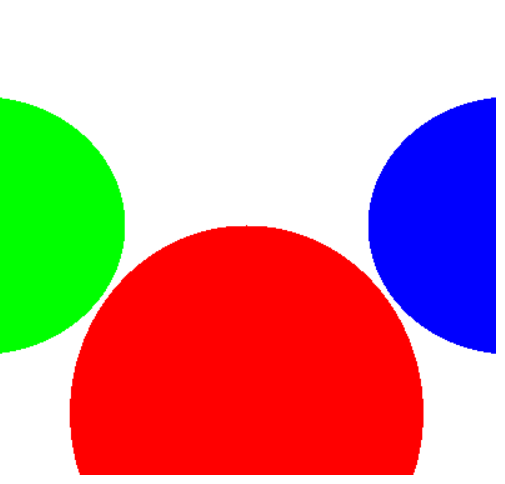
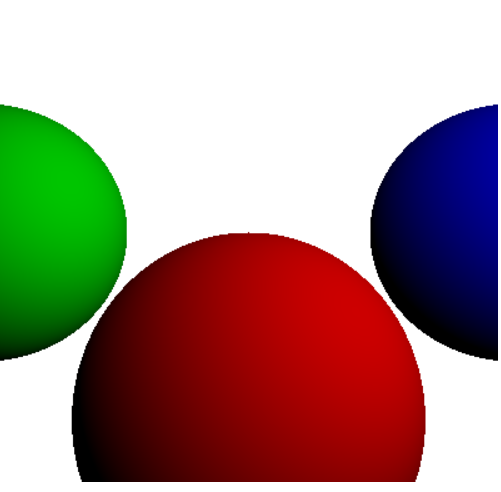
added diffuse light reflection and updated readme

diff --git a/CPURaytracer/RaytracingManager.js b/CPURaytracer/RaytracingManager.js
@@ -11,6 +11,7 @@ class RaytracingManager {
     shapeData,
     putPixelCallback,
     onCompleteCallback,
+    lightData,
   }) {
     this.viewportHeight = viewportHeight;
     this.viewportWidth = viewportWidth;
@@ -21,6 +22,46 @@ class RaytracingManager {
     this.shapeData = shapeData;
     this.putPixelCallback = putPixelCallback;
     this.onCompleteCallback = onCompleteCallback;
+    this.lightData = lightData;
+  }
+
+  #calculateLighting(color, intersectionPoint, normalToShapeSurface) {
+    if (!intersectionPoint) {
+      return color;
+    }
+    let intensity = 0.0;
+    for (let light of this.lightData) {
+      if (light.type === "ambient") {
+        intensity += light.intensity;
+      } else {
+        let lightVector = null;
+        if (light.type === "point") {
+          lightVector = mathServices.subtractVectors(
+            light.position,
+            intersectionPoint
+          );
+        } else if (light.type === "directional") {
+          lightVector = light.direction;
+        }
+        let dotProductOfNormalAndLightVector = mathServices.dotProduct(
+          lightVector,
+          normalToShapeSurface
+        );
+        let magnitudeOfLightVector =
+          mathServices.magnitudeOfVector(lightVector);
+        let magnitudeOfNormalVector =
+          mathServices.magnitudeOfVector(normalToShapeSurface);
+        intensity +=
+          light.intensity *
+          (dotProductOfNormalAndLightVector /
+            (magnitudeOfLightVector * magnitudeOfNormalVector));
+      }
+    }
+    return {
+      r: color.r * intensity,
+      g: color.g * intensity,
+      b: color.b * intensity,
+    };
   }
 
   #calculateDirectionVector(viewportPosition) {
@@ -45,9 +86,25 @@ class RaytracingManager {
       }
     }
     if (closestShape === null) {
-      return { r: 255, g: 255, b: 255 };
+      return {
+        color: { r: 255, g: 255, b: 255 },
+        intersectionPoint: null,
+        normalToShapeSurface: null,
+      };
     }
-    return closestShape.color;
+    let intersectionPoint = mathServices.addVectors(
+      this.cameraPosition,
+      mathServices.scaleVector(directionVector, closestT)
+    );
+    let closestShapeColor = closestShape.color;
+    let normalToShapeSurface = mathServices.normalizeVector(
+      mathServices.subtractVectors(intersectionPoint, closestShape.center)
+    );
+    return {
+      color: closestShapeColor,
+      intersectionPoint: intersectionPoint,
+      normalToShapeSurface: normalToShapeSurface,
+    };
   }
 
   #intersectRayWithSphere({ directionVector, shape }) {
@@ -83,16 +140,23 @@ class RaytracingManager {
     let ratioH = this.viewportHeight / this.canvasHeight;
     for (let i = startX; i <= endX; i++) {
       for (let j = startY; j <= endY; j++) {
-        let color = this.#traceRay({
-          tMin: 1,
-          tMax: Number.POSITIVE_INFINITY,
-          directionVector: this.#calculateDirectionVector({
-            x: i * ratioW,
-            y: j * ratioH,
-            z: this.distanceFromCameraToViewport,
-          }),
-        });
-        this.putPixelCallback(i, j, color);
+        let { color, intersectionPoint, normalToShapeSurface } = this.#traceRay(
+          {
+            tMin: 1,
+            tMax: Number.POSITIVE_INFINITY,
+            directionVector: this.#calculateDirectionVector({
+              x: i * ratioW,
+              y: j * ratioH,
+              z: this.distanceFromCameraToViewport,
+            }),
+          }
+        );
+        let colorWithIntensityAdjusted = this.#calculateLighting(
+          color,
+          intersectionPoint,
+          normalToShapeSurface
+        );
+        this.putPixelCallback(i, j, colorWithIntensityAdjusted);
       }
     }
     this.onCompleteCallback();

diff --git a/index.js b/index.js
@@ -24,6 +24,23 @@ let shapeData = [
     color: { r: 0, g: 255, b: 0 },
   },
 ];
+let lightData = [
+  {
+    type: "ambient",
+    intensity: 0.2,
+  },
+
+  {
+    type: "point",
+    intensity: 0.6,
+    position: { x: 2, y: 1, z: 0 },
+  },
+  {
+    type: "directional",
+    intensity: 0.2,
+    direction: { x: 1, y: 4, z: 4 },
+  },
+];
 
 let cm = new CanvasManager({
   target: document.getElementById("root"),
@@ -41,6 +58,7 @@ let rm = new RaytracingManager({
   cameraPosition: cameraPosition,
   distanceFromCameraToViewport: distanceFromCameraToViewport,
   shapeData: shapeData,
+  lightData: lightData,
   putPixelCallback: (x, y, color) => {
     cm.putPixel({
       x: x,

diff --git a/CPURaytracer/mathServices.js b/CPURaytracer/mathServices.js
@@ -15,6 +15,18 @@ export default {
       z: v.z * k,
     };
   },
+  magnitudeOfVector(v) {
+    return Math.sqrt(v.x ** 2 + v.y ** 2 + v.z ** 2);
+  },
+
+  normalizeVector(v) {
+    let k = this.magnitudeOfVector(v);
+    if (k === 0) {
+      return v;
+    }
+    return this.scaleVector(v, 1 / k);
+  },
+
   quadraticEquationRoots(a, b, c) {
     let d = b ** 2 - 4 * a * c;
     if (d < 0) {

diff --git a/CPURaytracer/CanvasManager.js b/CPURaytracer/CanvasManager.js
@@ -50,7 +50,7 @@ class CanvasManager {
     this.#imageData.data[index] = r; // R
     this.#imageData.data[index + 1] = g; // G
     this.#imageData.data[index + 2] = b; // B
-    this.#imageData.data[index + 3] = 255; // A (fully opaque)
+    this.#imageData.data[index + 3] = 255; // A (opacity)
   }
 
   clearCanvas() {

diff --git a/README.md b/README.md
@@ -22,6 +22,47 @@ A simple CPU-based ray tracer written in **vanilla JavaScript**, rendering direc
 
 ---
 
+## Lighting Model
+
+### Types of Light Sources
+
+**Based on origin:**
+
+- **Emissive Light**: Light emitted directly from a source (e.g., bulb, sun).
+- **Scattered Light**: Light reflected off surfaces. Acts as a secondary source.
+
+**Based on mathematical modeling:**
+
+- **Point Light**: Light originates from a single point. Each surface point has a different light vector (e.g., a bulb).
+- **Directional Light**: Light comes from a far-away source. All surface points share the same direction vector (e.g., sunlight).
+- **Ambient Light**: A constant, low-intensity light representing indirect scattering from the environment.
+
+### Surface Types
+
+- **Matte Surface**: Reflects light equally in all directions (diffuse reflection).
+- **Shiny Surface**: Reflects light in a specific direction (specular reflection).
+
+### Diffuse Reflection Calculation
+
+![Diffuse Reflection Visualization](readmeImages/diffuse_light_calc.png)
+
+To compute how a matte surface reflects light:
+
+- **I**: Light intensity (thickness of the light beam)
+- **A**: Surface area over which the light spreads
+- **L**: Light vector (from point to light source)
+- **N**: Surface normal at the point
+- **a**: Angle between L and N
+
+**Reflected Intensity = Light Intensity × cos(α)**
+
+- When a → 0 degrees, cos(a) → 1 (maximum reflection)
+- When a → 90 degrees, cos(a) → 0 (no reflection)
+
+This models how light spreads over a larger area at shallow angles, thus reducing its intensity.
+
+---
+
 ## Project Structure
 
 ### CPURaytracer/EventsManager.js
@@ -89,7 +130,7 @@ To run the raytracer locally:
 
 ## Planned Work
 
-- Add lighting (diffuse, specular)
+- Add lighting (specular)
 - Support multiple object types (planes, boxes, etc.)
 - Build a lightweight raytracer NPM package
 - Port math engine to WebAssembly for performance
